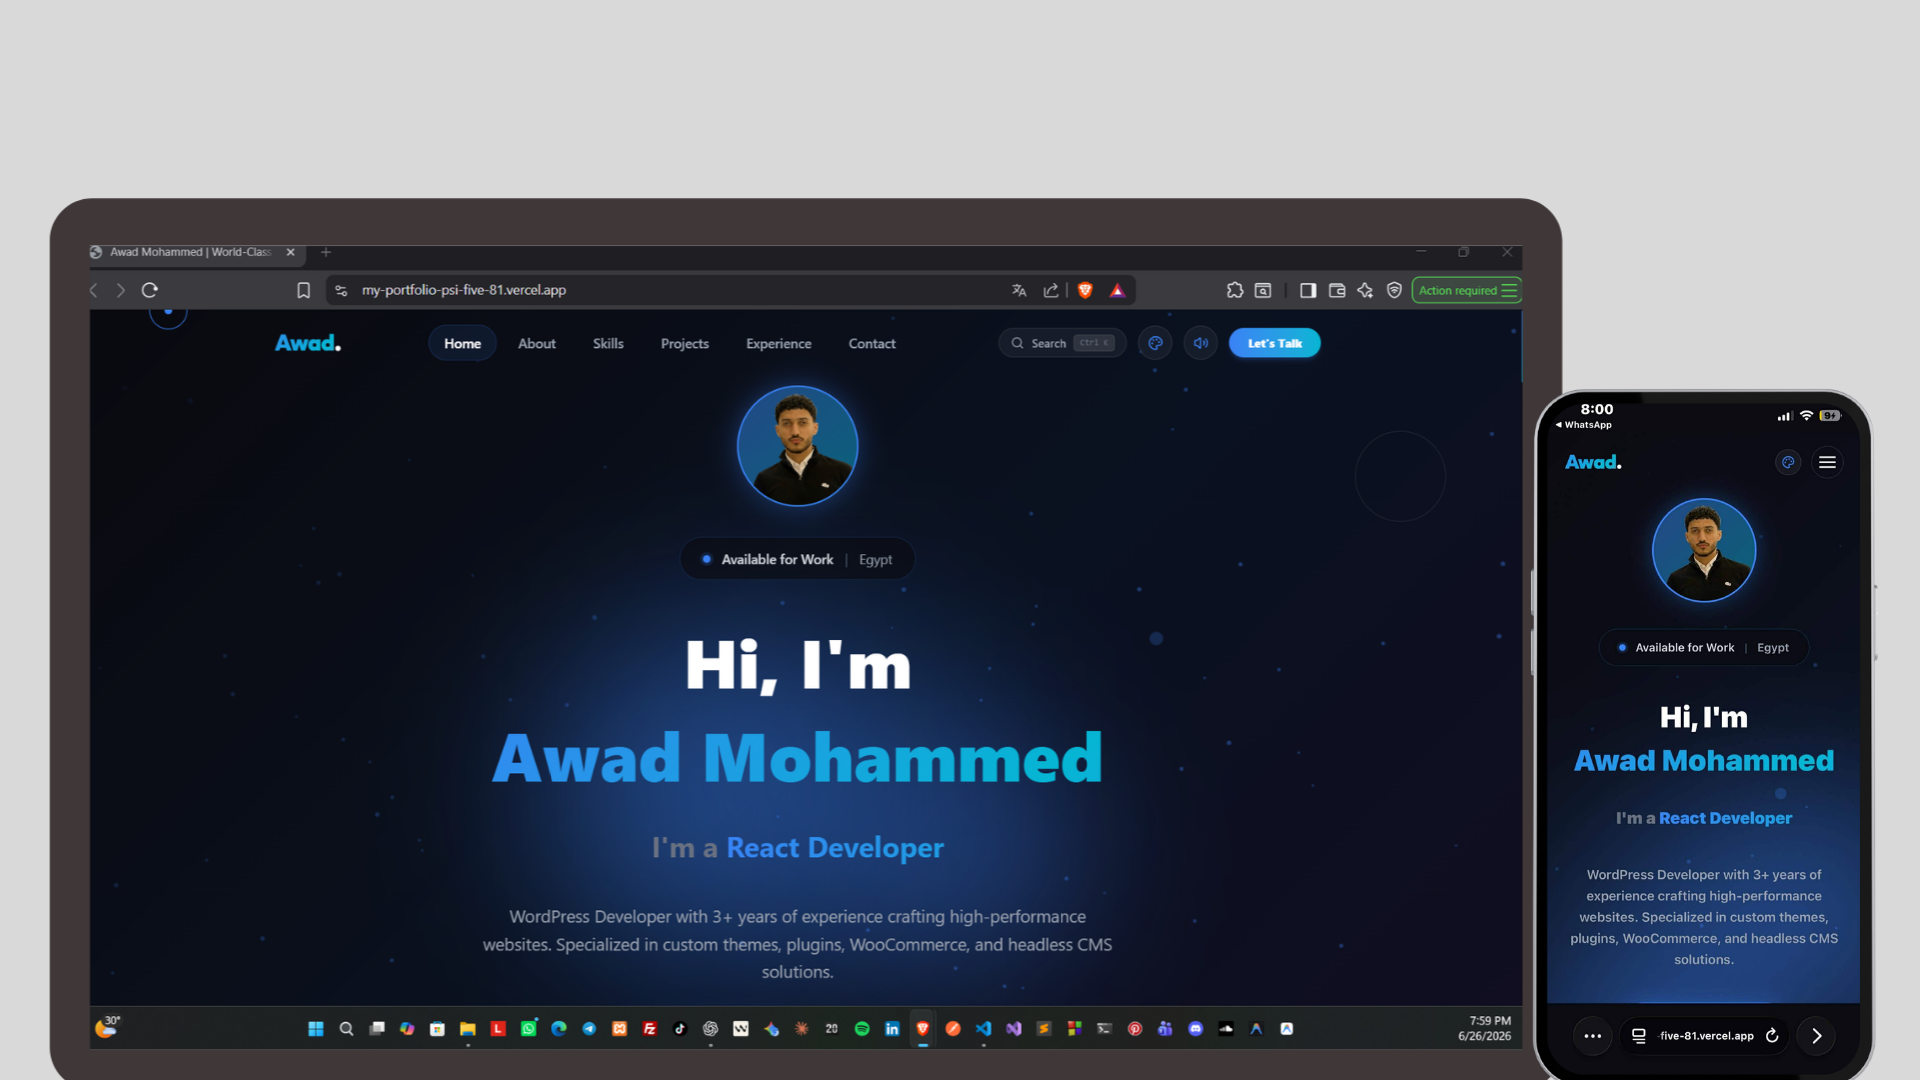
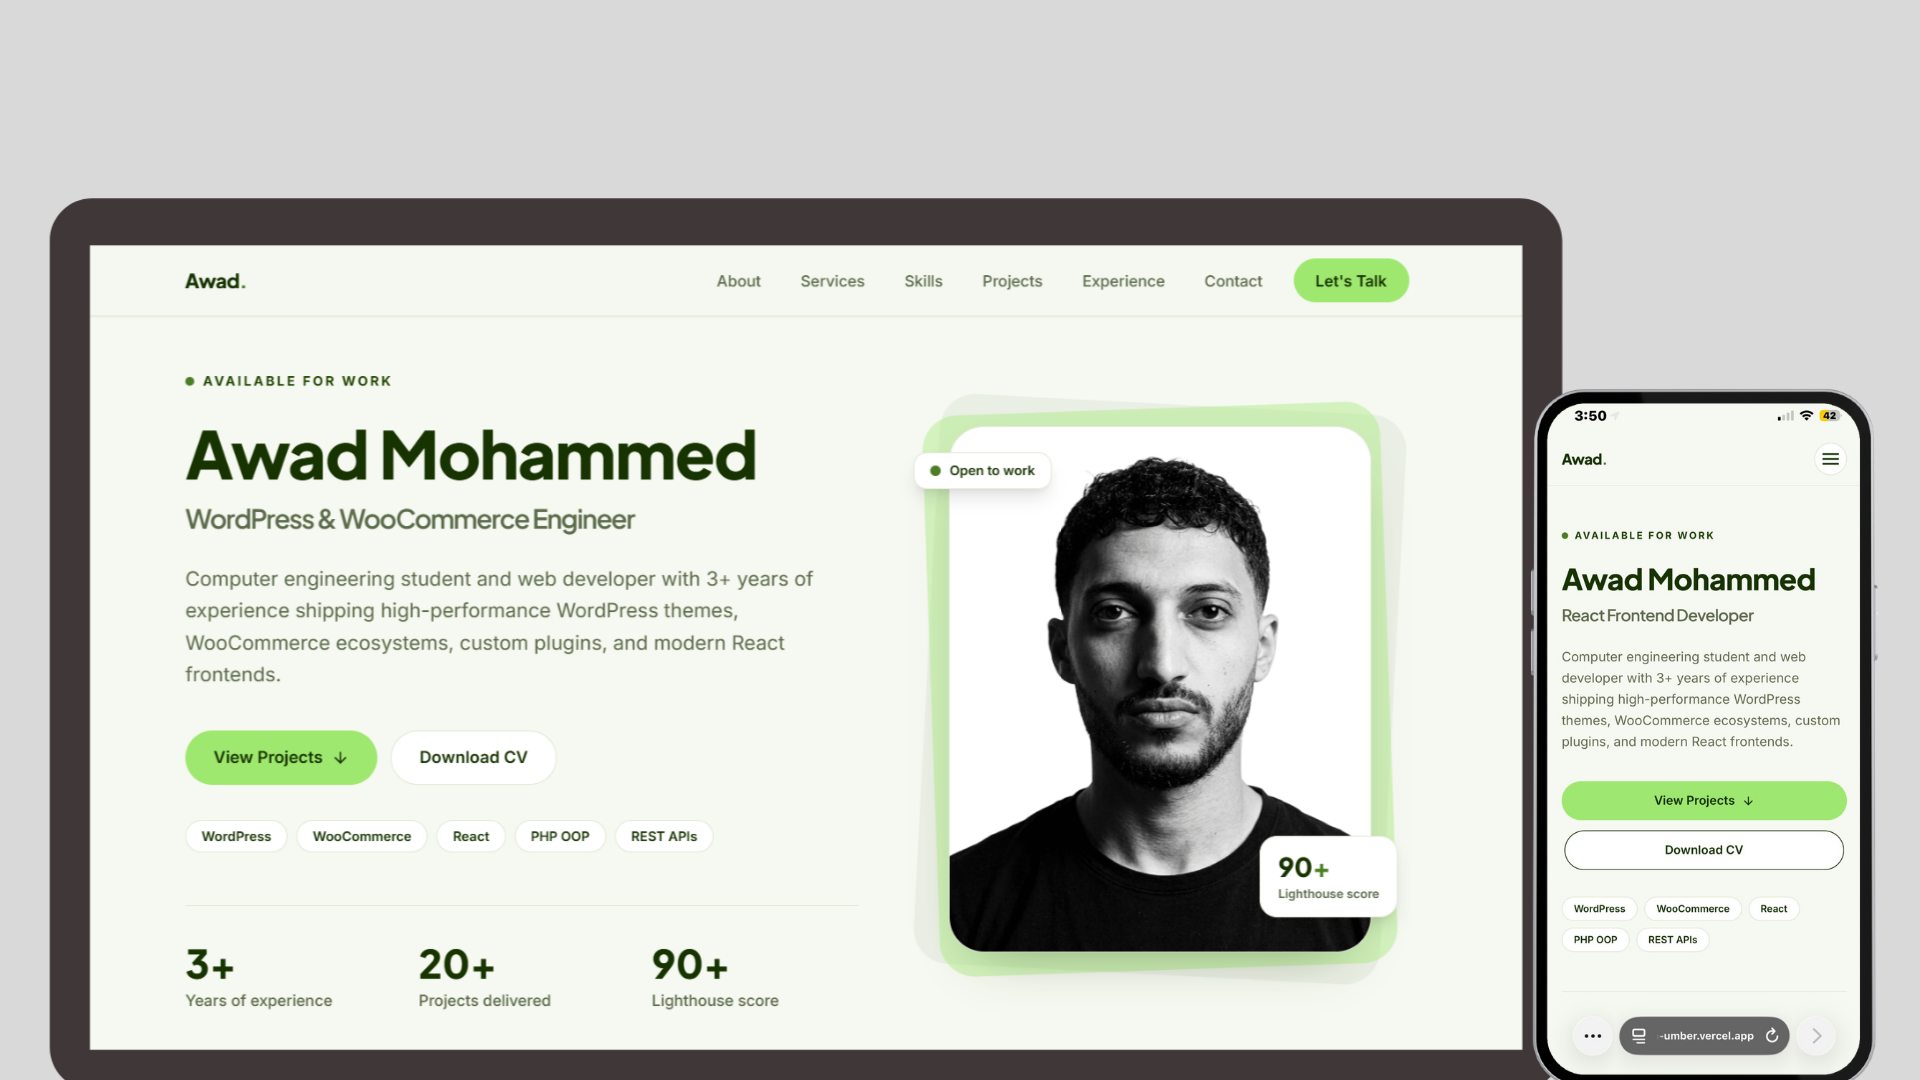
for dsign 4

diff --git a/src/components/Navbar.jsx b/src/components/Navbar.jsx
@@ -79,18 +79,18 @@ export default function Navbar() {
         >
           <span className="relative block h-3.5 w-5">
             <span
-              className={`absolute left-0 top-0 h-0.5 w-full bg-ink transition-all duration-300 ${
-                open ? "top-1.5 rotate-45" : ""
+              className={`absolute left-0 top-[6px] h-0.5 w-full bg-ink transition-transform duration-300 ${
+                open ? "rotate-45" : "-translate-y-[6px]"
               }`}
             />
             <span
-              className={`absolute left-0 top-1.5 h-0.5 w-full bg-ink transition-all duration-300 ${
+              className={`absolute left-0 top-[6px] h-0.5 w-full bg-ink transition-[opacity,transform] duration-300 ${
                 open ? "opacity-0" : ""
               }`}
             />
             <span
-              className={`absolute left-0 top-3 h-0.5 w-full bg-ink transition-all duration-300 ${
-                open ? "top-1.5 -rotate-45" : ""
+              className={`absolute left-0 top-[6px] h-0.5 w-full bg-ink transition-transform duration-300 ${
+                open ? "-rotate-45" : "translate-y-[6px]"
               }`}
             />
           </span>
@@ -116,6 +116,15 @@ export default function Navbar() {
               </a>
             </li>
           ))}
+          <li className="mt-2">
+            <a
+              href="#contact"
+              onClick={() => setOpen(false)}
+              className="btn btn-accent w-full justify-center text-sm"
+            >
+              Let&apos;s Talk
+            </a>
+          </li>
         </ul>
       </div>
     </header>

diff --git a/src/index.css b/src/index.css
@@ -206,15 +206,17 @@
 /* Faint marquee of service keywords across the CTA band */
 @keyframes marquee-soft {
   from {
-    transform: translateX(0);
+    transform: translate3d(0, 0, 0);
   }
   to {
-    transform: translateX(-50%);
+    transform: translate3d(-50%, 0, 0);
   }
 }
 
 .animate-marquee-soft {
-  animation: marquee-soft 32s linear infinite;
+  transform: translate3d(0, 0, 0);
+  will-change: transform;
+  animation: marquee-soft 28s linear infinite;
 }
 
 /* Editorial index numerals on service cards */
